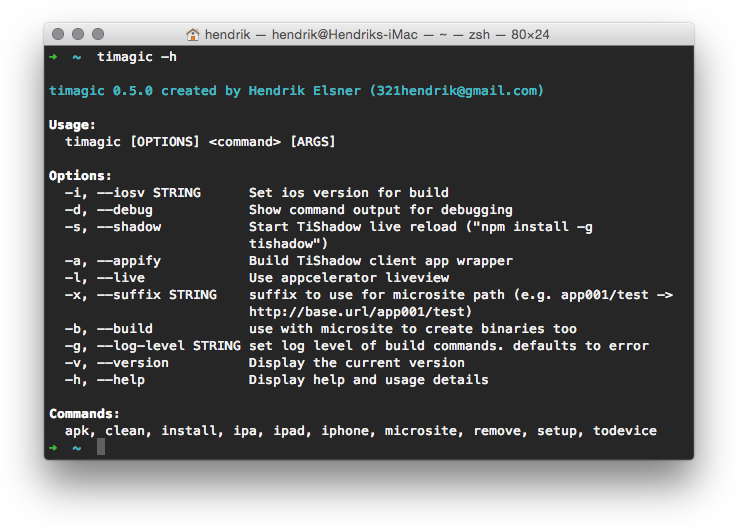
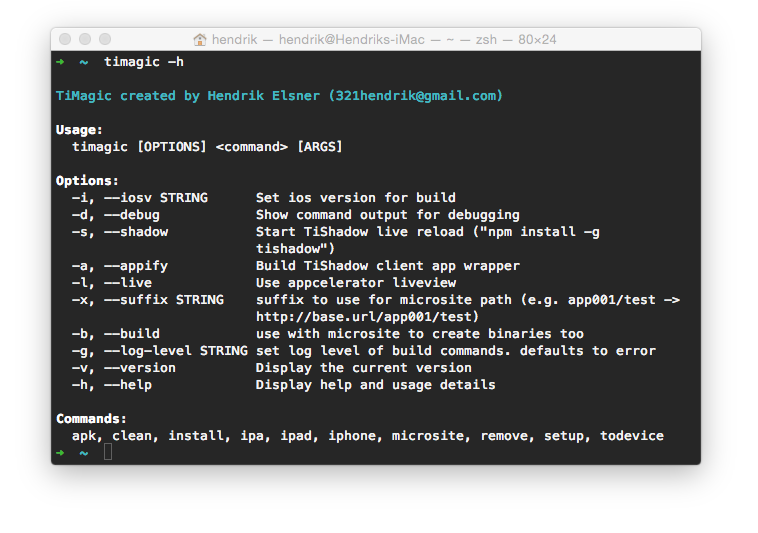
new microsite for desktop & error handling

Changed region(s): [[0.0312, 0.0304, 0.9661, 0.9715]]

diff --git a/lib/logic.js b/lib/logic.js
@@ -42,7 +42,11 @@
 			child = spawn('/bin/sh', ['-c', cmd], { stdio: 'inherit' });
 
 			child.on('close', function (code) {
-				deferred.resolve(code);
+				if (code !== 0) {
+					deferred.reject('command exited with code: ' + code + '\n(' + cmd + ')');
+				} else {
+					deferred.resolve(code);
+				}
 			});
 			child.on('error', function (err) {
 				deferred.reject(err);
@@ -239,6 +243,7 @@
 		var project_url = params['url'] + params['suffix'];
 		var ios_link = project_url + '/' + 'manifest.plist';
 		var android_link = project_url + '/' + params['title'] + '.apk';
+		var ipa_link = project_url + '/' + params['title'] + '.ipa';
 		var title_with_version = params['title'] + ' (' + params['bundle_version'] + ')';
 
 		/*jshint multistr: true */
@@ -277,6 +282,9 @@
 							margin-top: .5em;\
 							padding: .3em;\
 						}\
+						.visible {\
+							display: block;\
+						}\
 						.link a {\
 							text-decoration:none;\
 							font-size:15px;\
@@ -311,7 +319,13 @@
 							<a href="{{ANDROID LINK}}">Tap Here to Install<br />{{TITLE}}<br />Directly On Your Android Device</a>\
 						</div>\
 						<div id="no-device-info">\
-							<p>Make sure you are visiting this page on your device, not your computer.<br /></p>\
+							{{TITLE}}\
+							<div class="link visible">\
+								<a href="{{IPA LINK}}">Download For iOS</a>\
+							</div>\
+							<div class="link visible">\
+								<a href="{{ANDROID LINK}}">Download For Android</a>\
+							</div>\
 						</div>\
 						<p class="last_updated">Last Updated: {{CURRENT DATE}}</p>\
 					</div>\
@@ -331,6 +345,7 @@
 
 		html = html.replace(/{{TITLE}}/g, title_with_version);
 		html = html.replace(/{{ANDROID LINK}}/g, android_link);
+		html = html.replace(/{{IPA LINK}}/g, ipa_link);
 		html = html.replace(/{{IOS LINK}}/g, ios_link);
 		html = html.replace(/{{CURRENT DATE}}/g, params['dateString']);
 
@@ -773,27 +788,27 @@
 					savePath: path.join(distFolder, 'index.html')
 				});
 			})
+			.then(function () {
+				if (params.options.build) {
+					var deploymentTarget = getDeploymentTargets(tiapp.get('deployment-targets'));
+
+					params.outputPath = distFolder;
+
+					var promises = [];
+					// android build
+					if (deploymentTarget.indexOf('android') > -1) {
+						promises.push(apk(env, settings, tiapp, params));
+					}
+					// ios build
+					if (deploymentTarget.indexOf('ios') > -1) {
+						promises.push(ipa(env, settings, tiapp, params));
+					}
+					return Q.all(promises);
+				} else {
+					return true;
+				}
+			})
 		;
-
-		if (params.options.build) {
-			var deploymentTarget = getDeploymentTargets(tiapp.get('deployment-targets'));
-
-			params.outputPath = distFolder;
-
-			// android build
-			if (deploymentTarget.indexOf('android') > -1) {
-				promise.then(function () {
-					return apk(env, settings, tiapp, params);
-				});
-			}
-
-			// ios build
-			if (deploymentTarget.indexOf('ios') > -1) {
-				promise.then(function () {
-					return ipa(env, settings, tiapp, params);
-				});
-			}
-		}
 
 		return promise;
 	}

diff --git a/lib/main.js b/lib/main.js
@@ -15,7 +15,7 @@
 	// show app info for every action
 	var arg = process.argv.slice(2).shift();
 	if (arg != '-v' && arg != '--version') {
-		console.log(logic.color('cyan', '\n' + pkg.name + ' ' + pkg.version + ' created by ' + pkg.author.name + ' (' + pkg.author.email + ') \n'));
+		console.log(logic.color('cyan', '\nTiMagic created by ' + pkg.author.name + ' (' + pkg.author.email + ') \n'));
 	}
 
 	cli.enable('version');
